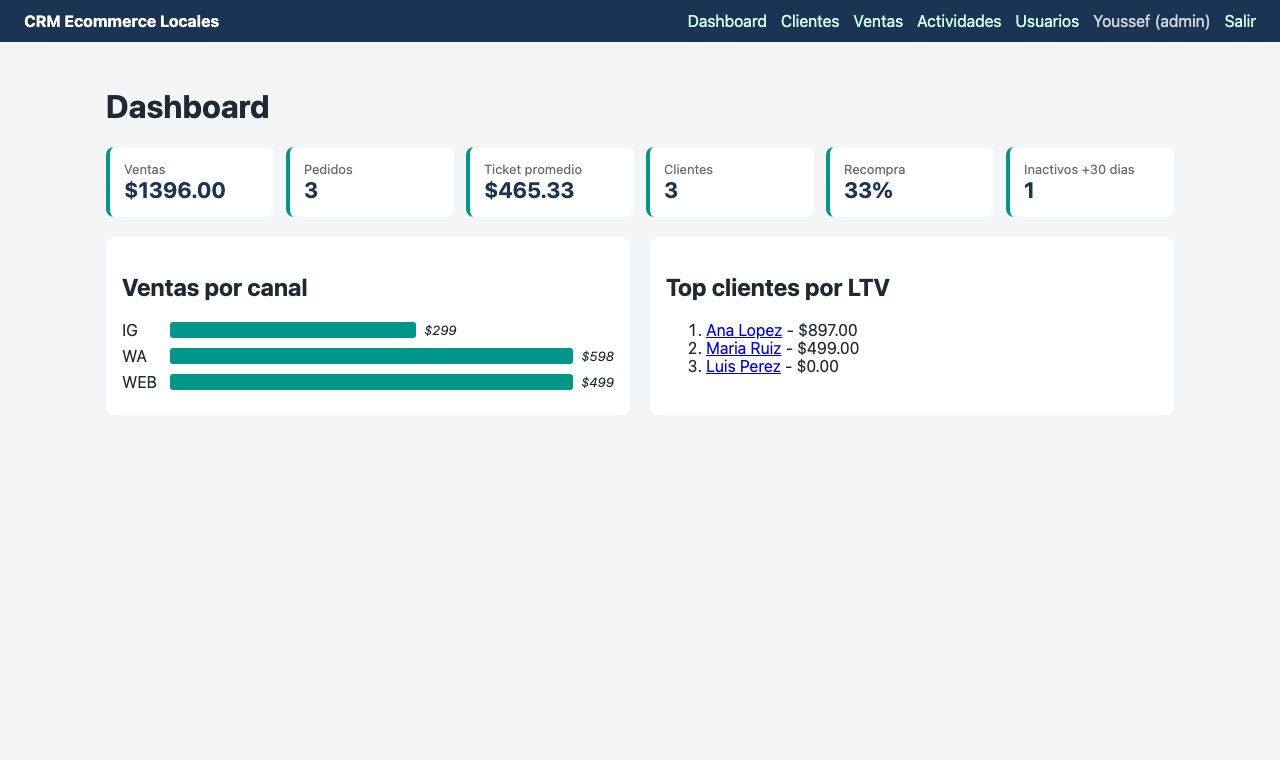
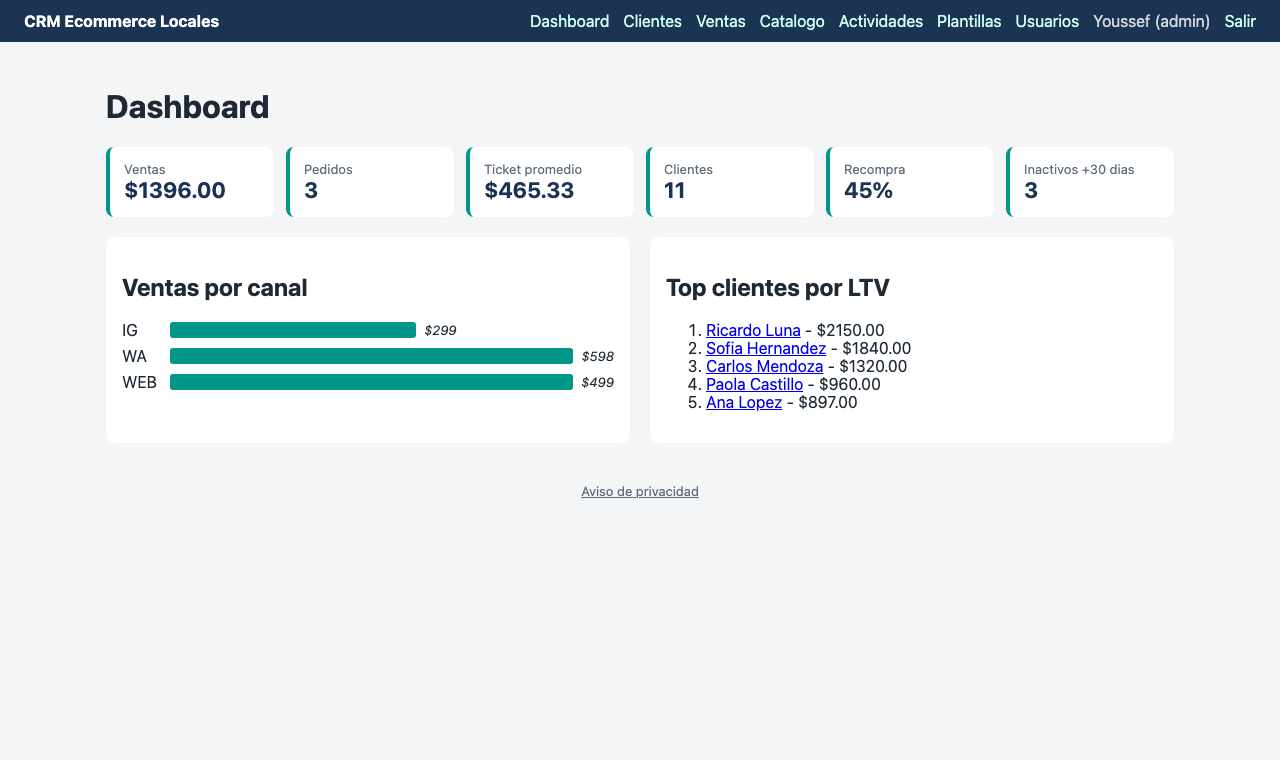
feat: landing y demo v1.0 con plantillas, catalogo y privacidad; mejoras de CSS en movil

diff --git a/pages/index.html b/pages/index.html
@@ -55,11 +55,11 @@
   <div class="wrap">
     <nav>
       <div class="logo"><b>C</b> CRM Ecommerce Locales</div>
-      <div class="links"><a href="#modulos">Modulos</a><a href="#arquitectura">Arquitectura</a><a href="#equipo">Equipo</a><a href="https://github.com/ItsYusei99/crm-ecommerce-locales">GitHub</a></div>
+      <div class="links"><a href="#modulos">Modulos</a><a href="https://github.com/ItsYusei99/crm-ecommerce-locales/blob/main/docs/MANUAL_USUARIO.md">Manual</a><a href="#arquitectura">Arquitectura</a><a href="#equipo">Equipo</a><a href="https://github.com/ItsYusei99/crm-ecommerce-locales">GitHub</a></div>
     </nav>
     <div class="hero">
       <div>
-        <span class="chip">FASE III · v0.7.0-BETA</span>
+        <span class="chip">FASE IV · v1.0.0</span>
         <h1>CRM para Emprendedores de Ecommerce Locales</h1>
         <p>Clientes, ventas y postventa por WhatsApp en un solo lugar, para negocios que venden por Instagram, WhatsApp y tienda en linea.</p>
         <div class="btns">
@@ -74,17 +74,17 @@
 
 <div class="wrap">
   <div class="stats">
-    <div class="stat"><b>70%</b><span>CRM funcional</span></div>
-    <div class="stat"><b>6 / 8</b><span>modulos terminados</span></div>
-    <div class="stat"><b>13</b><span>pruebas en verde</span></div>
-    <div class="stat"><b>3</b><span>canales: IG, WA, Web</span></div>
+    <div class="stat"><b>v1.0</b><span>version final del curso</span></div>
+    <div class="stat"><b>13</b><span>errores encontrados y corregidos</span></div>
+    <div class="stat"><b>49</b><span>pruebas en verde</span></div>
+    <div class="stat"><b>47x</b><span>mas rapido el tablero de ventas</span></div>
   </div>
 </div>
 
 <section id="modulos">
   <div class="wrap">
     <div class="kicker">Modulos</div>
-    <h2>Lo que ya hace el CRM</h2>
+    <h2>Lo que hace el CRM</h2>
     <div class="grid">
       <div class="card"><h3>Usuarios y seguridad</h3><p>Registro, login y roles admin, editor y colaborador. Contrasenas con hash.</p></div>
       <div class="card"><h3>Clientes</h3><p>Alta, edicion, busqueda por nombre, WhatsApp o Instagram, segmento y LTV.</p></div>
@@ -92,6 +92,9 @@
       <div class="card"><h3>Seguimiento de ventas</h3><p>Pipeline por estado; cada venta recalcula LTV y segmento del cliente.</p></div>
       <div class="card"><h3>Registro de actividades</h3><p>Bitacora de quien hizo que dentro del sistema.</p></div>
       <div class="card"><h3>Dashboard</h3><p>Ventas, ticket promedio, recompra, inactivos, ventas por canal y top LTV.</p></div>
+      <div class="card"><h3>Plantillas de WhatsApp</h3><p>Mensajes editables con el nombre del cliente, listos para enviar en un clic.</p></div>
+      <div class="card"><h3>Catalogo y exportacion</h3><p>Productos con baja logica y lista de clientes a CSV compatible con Excel.</p></div>
+      <div class="card"><h3>Privacidad y seguridad</h3><p>Aviso de privacidad, proteccion CSRF, roles y cabeceras de seguridad.</p></div>
     </div>
   </div>
 </section>
@@ -105,6 +108,8 @@
       <div class="shot"><img src="img/app_ficha.png" alt="Ficha del cliente"><div><b>Ficha 360</b> · pedidos, contactos y WhatsApp</div></div>
       <div class="shot"><img src="img/app_ventas.png" alt="Pipeline de ventas"><div><b>Ventas</b> · pipeline por estado</div></div>
       <div class="shot"><img src="img/app_actividades.png" alt="Registro de actividades"><div><b>Actividades</b> · bitacora del equipo</div></div>
+      <div class="shot"><img src="img/app_plantillas.png" alt="Plantillas de WhatsApp"><div><b>Plantillas</b> · mensajes editables</div></div>
+      <div class="shot"><img src="img/app_catalogo.png" alt="Catalogo de productos"><div><b>Catalogo</b> · productos activos e inactivos</div></div>
     </div>
   </div>
 </section>
@@ -125,7 +130,7 @@
       <div class="paso"><b>GitHub</b><br>Issues con descripcion, analisis y solucion. Ramas feature por modulo.</div>
       <div class="paso"><b>Zube</b><br>Tablero Kanban sincronizado con los issues y sprints beta / rc.</div>
       <div class="paso"><b>Travis CI</b><br>pytest en Python 3.11 y 3.12 en cada push y pull request.</div>
-      <div class="paso"><b>Releases</b><br>v0.7.0-beta publicado; v0.9.0-rc en curso.</div>
+      <div class="paso"><b>Releases</b><br>v0.7.0-beta, v0.9.0-rc y v1.0.0 publicados.</div>
     </div>
     <h3 style="margin-top:40px;color:var(--navy)">Correrlo en local</h3>
     <pre>pip install -r requirements.txt
@@ -145,6 +150,6 @@ flask --app app run</pre>
   </div>
 </section>
 
-<footer><div class="wrap">CRM Ecommerce Locales · Taller de productividad · Octubre 2026 · <a href="https://github.com/ItsYusei99/crm-ecommerce-locales">Repositorio</a></div></footer>
+<footer><div class="wrap">CRM Ecommerce Locales · Taller de productividad · Noviembre 2026 · <a href="https://github.com/ItsYusei99/crm-ecommerce-locales">Repositorio</a></div></footer>
 </body>
 </html>

diff --git a/app/templates/plantillas/lista.html b/app/templates/plantillas/lista.html
@@ -2,18 +2,22 @@
 {% block content %}
 <h1>Plantillas de WhatsApp</h1>
 <p>Usa <code>{nombre}</code> para insertar el primer nombre del cliente.</p>
+<div class="rejilla">
 {% for clave, texto in plantillas.items() %}
 <form method="post" class="caja">
   <input type="hidden" name="csrf_token" value="{{ csrf_token() }}">
   <input type="hidden" name="clave" value="{{ clave }}">
   <label>{{ clave }} <textarea name="texto" maxlength="500" required>{{ texto }}</textarea></label>
-  <button>Guardar</button>
-  <button class="peligro" formaction="{{ url_for('plantillas.eliminar', clave=clave) }}" onclick="return confirm('Eliminar plantilla?')">Eliminar</button>
+  <div class="acciones">
+    <button>Guardar</button>
+    <button class="peligro" formaction="{{ url_for('plantillas.eliminar', clave=clave) }}" onclick="return confirm('Eliminar plantilla?')">Eliminar</button>
+  </div>
 </form>
 {% endfor %}
+</div>
+<h2>Nueva plantilla</h2>
 <form method="post" class="caja">
   <input type="hidden" name="csrf_token" value="{{ csrf_token() }}">
-  <h2>Nueva plantilla</h2>
   <label>Clave <input name="clave" required placeholder="ej. cumpleanos"></label>
   <label>Texto <textarea name="texto" maxlength="500" required></textarea></label>
   <button>Crear</button>

diff --git a/app/static/estilos.css b/app/static/estilos.css
@@ -38,9 +38,16 @@ footer a { color: #5f6b7a; }
 .legal { background: #fff; padding: 24px; border-radius: 8px; max-width: 760px; line-height: 1.55; }
 .paginas { color: #5f6b7a; font-size: 14px; }
 .paginas a { margin: 0 6px; }
-table { display: block; overflow-x: auto; }
+form.linea { flex-wrap: wrap; }
 @media (max-width: 600px) {
   header { padding: 10px 12px; }
   .caja { max-width: none; }
+  table { display: block; overflow-x: auto; }
   th, td { padding: 6px; font-size: 14px; }
+  form.linea input[name=q] { flex: 1 1 100%; }
 }
+.rejilla { display: grid; grid-template-columns: repeat(auto-fill, minmax(320px, 1fr)); gap: 14px; margin-bottom: 20px; }
+.rejilla .caja { max-width: none; }
+.acciones { display: flex; gap: 8px; }
+.acciones button { flex: 1; }
+textarea { min-height: 70px; resize: vertical; }

diff --git a/scripts/build_pages.py b/scripts/build_pages.py
@@ -30,6 +30,8 @@ def a_estatico(html):
         if ruta.startswith("/static/"):
             return f'{attr}="{BASE}{ruta}"'
         ruta = ruta.split("?")[0].rstrip("/")
+        if ruta.endswith(".csv"):
+            return f'{attr}="{BASE}{ruta}"'
         return f'{attr}="{BASE}{ruta}/"'
     html = re.sub(r'(href|action)="(/[^"]*)"', cambiar, html)
     html = html.replace("<main>", "<main>" + AVISO, 1).replace("</head>", BLOQUEO + "</head>", 1)
@@ -52,14 +54,20 @@ def main():
     with app.app_context():
         init_db()
         ids = [r[0] for r in get_db().execute("SELECT id_cliente FROM Cliente")]
+        pids = [r[0] for r in get_db().execute("SELECT id_producto FROM Producto")]
     c = app.test_client()
     c.post("/auth/login", data={"correo": "youssef@crm.local", "password": "demo1234"})
-    rutas = ["/", "/clientes/", "/ventas/", "/ventas/nuevo", "/clientes/nuevo", "/actividades/", "/auth/usuarios"]
+    rutas = ["/", "/clientes/", "/ventas/", "/ventas/nuevo", "/clientes/nuevo", "/actividades/", "/auth/usuarios",
+             "/plantillas/", "/productos/", "/privacidad"]
     rutas += [f"/clientes/{i}" for i in ids] + [f"/clientes/{i}/editar" for i in ids]
+    rutas += ["/productos/nuevo"] + [f"/productos/{i}/editar" for i in pids]
     for r in rutas:
         resp = c.get(r)
         assert resp.status_code == 200, (r, resp.status_code)
         guardar(r, a_estatico(resp.get_data(as_text=True)))
+    csv_destino = os.path.join(SALIDA, "demo", "clientes", "exportar.csv")
+    with open(csv_destino, "wb") as f:  # la demo ofrece la exportacion como archivo estatico
+        f.write(c.get("/clientes/exportar.csv").data)
     for r in ["/auth/login", "/auth/registro", "/auth/logout"]:  # en la demo ya hay sesion iniciada
         guardar(r, f'<meta http-equiv="refresh" content="0; url={BASE}/">')
     open(os.path.join(SALIDA, ".nojekyll"), "w").close()

diff --git a/README.md b/README.md
@@ -10,7 +10,7 @@ clientes (nuevo, frecuente, inactivo) para hacer postventa por WhatsApp.
 
 **Sitio y demo:** https://itsyusei99.github.io/crm-ecommerce-locales/
 
-## Estado: Fase III - 70 % funcional
+## Estado: Fase IV - v1.0.0
 
 | Modulo | Estado |
 |---|---|
@@ -20,8 +20,10 @@ clientes (nuevo, frecuente, inactivo) para hacer postventa por WhatsApp.
 | Seguimiento de ventas (pedidos y pipeline por estado) | Listo |
 | Registro de actividades (bitacora) | Listo |
 | Dashboard (ventas, ticket, recompra, inactivos, por canal) | Listo |
-| Plantillas WhatsApp editables, exportar CSV, catalogo de productos | Pendiente (rc) |
-| Despliegue y migracion a MySQL | Pendiente (v1.0) |
+| Plantillas WhatsApp editables, exportar CSV, catalogo de productos | Listo |
+| MySQL: esquema y script de migracion de datos (`docs/mysql/`, `scripts/migrar_a_mysql.py`) | Listo |
+| Despliegue en servidor y uso de MySQL en produccion | Pendiente (la app corre sobre SQLite; Pages es solo demo) |
+| Aviso de privacidad (`/privacidad`) y seguridad (CSRF, cabeceras) | Listo |
 
 ## Como correrlo
 
@@ -33,6 +35,10 @@ flask --app app run          # http://127.0.0.1:5000
 ```
 
 Usuarios de prueba: `youssef@crm.local` (admin) y `emma@crm.local` (editor), contrasena `demo1234`.
+
+## Documentacion
+
+`docs/`: [pruebas funcionales](docs/PRUEBAS_FUNCIONALES.md), [rendimiento y usabilidad](docs/RENDIMIENTO_Y_USABILIDAD.md), [manual de usuario](docs/MANUAL_USUARIO.md), [aviso de privacidad](docs/AVISO_PRIVACIDAD.md), [colaboracion](docs/COLABORACION.md) y [evaluacion](docs/EVALUACION.md).
 
 ## Pruebas
 

diff --git a/docs/EVALUACION.md b/docs/EVALUACION.md
@@ -6,7 +6,7 @@ Datos tomados del repositorio, de los issues y de las mediciones del proyecto.
 
 | Indicador | Fase III (beta) | Fase IV (final) |
 |---|---|---|
-| Módulos funcionales | 6 de 8 (70 %) | 8 de 8 (100 %) |
+| Módulos funcionales | 6 de 8 (70 %) | 7 de 8; el 8.º (MySQL y despliegue) quedó con esquema y script de migración, falta el servidor |
 | Issues cerrados | 8 de 12 | 12 de 12 más 6 de la Fase IV |
 | Pruebas automáticas | 13 | 49 |
 | Líneas de código de la app | ~430 | ~680 |
